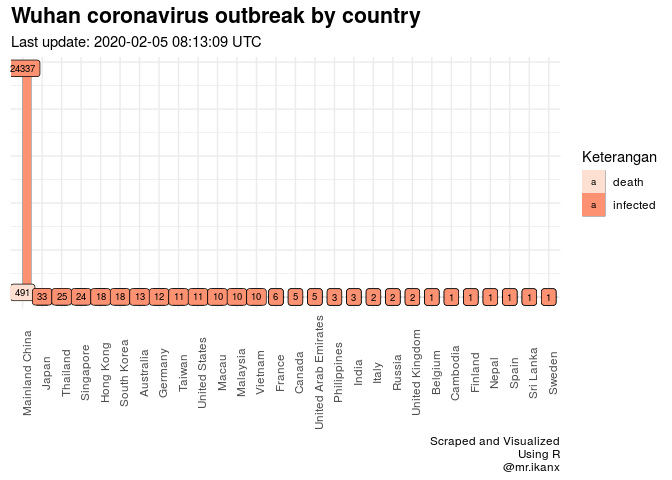
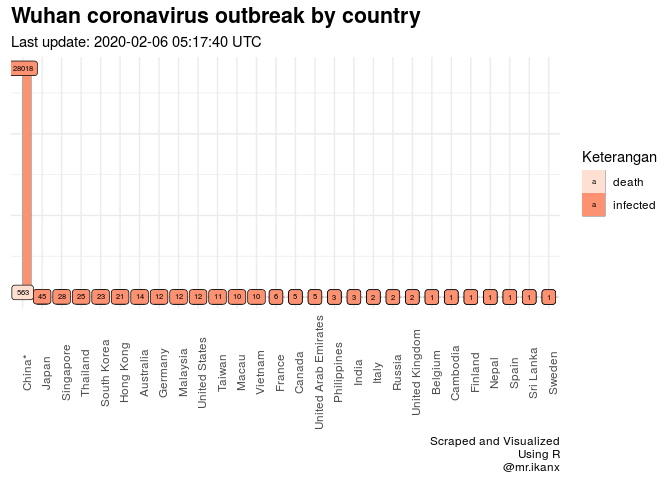
baur

diff --git a/Bukan Infografis/Corona Virus/Corona-Virus.md b/Bukan Infografis/Corona Virus/Corona-Virus.md
@@ -15,8 +15,8 @@ membaca informasi seputar virus ini di situs yang *reliable* seperti
 Sementara ini, jangan dipercaya dulu informasi dari sumber selain di
 atas.
 
-Berikut adalah grafik dari data yang dihimpun dari berbagai sumber. Saya
-akan update kondisinya setiap hari pukul `11 pagi WIB` atau `4
-UTC`.
+Berikut adalah grafik dari data yang dihimpun dari berbagai sumber.
+Kondisi ini adalah yang paling *update* per `6 Februari 2020` pukul `12
+WIB`.
 
-![](Corona-Virus_files/figure-gfm/unnamed-chunk-1-1.png)<!-- -->![](Corona-Virus_files/figure-gfm/unnamed-chunk-1-2.png)<!-- -->
+![](Corona-Virus_files/figure-gfm/unnamed-chunk-1-1.png)<!-- -->![](Corona-Virus_files/figure-gfm/unnamed-chunk-1-2.png)<!-- -->![](Corona-Virus_files/figure-gfm/unnamed-chunk-1-3.png)<!-- -->
